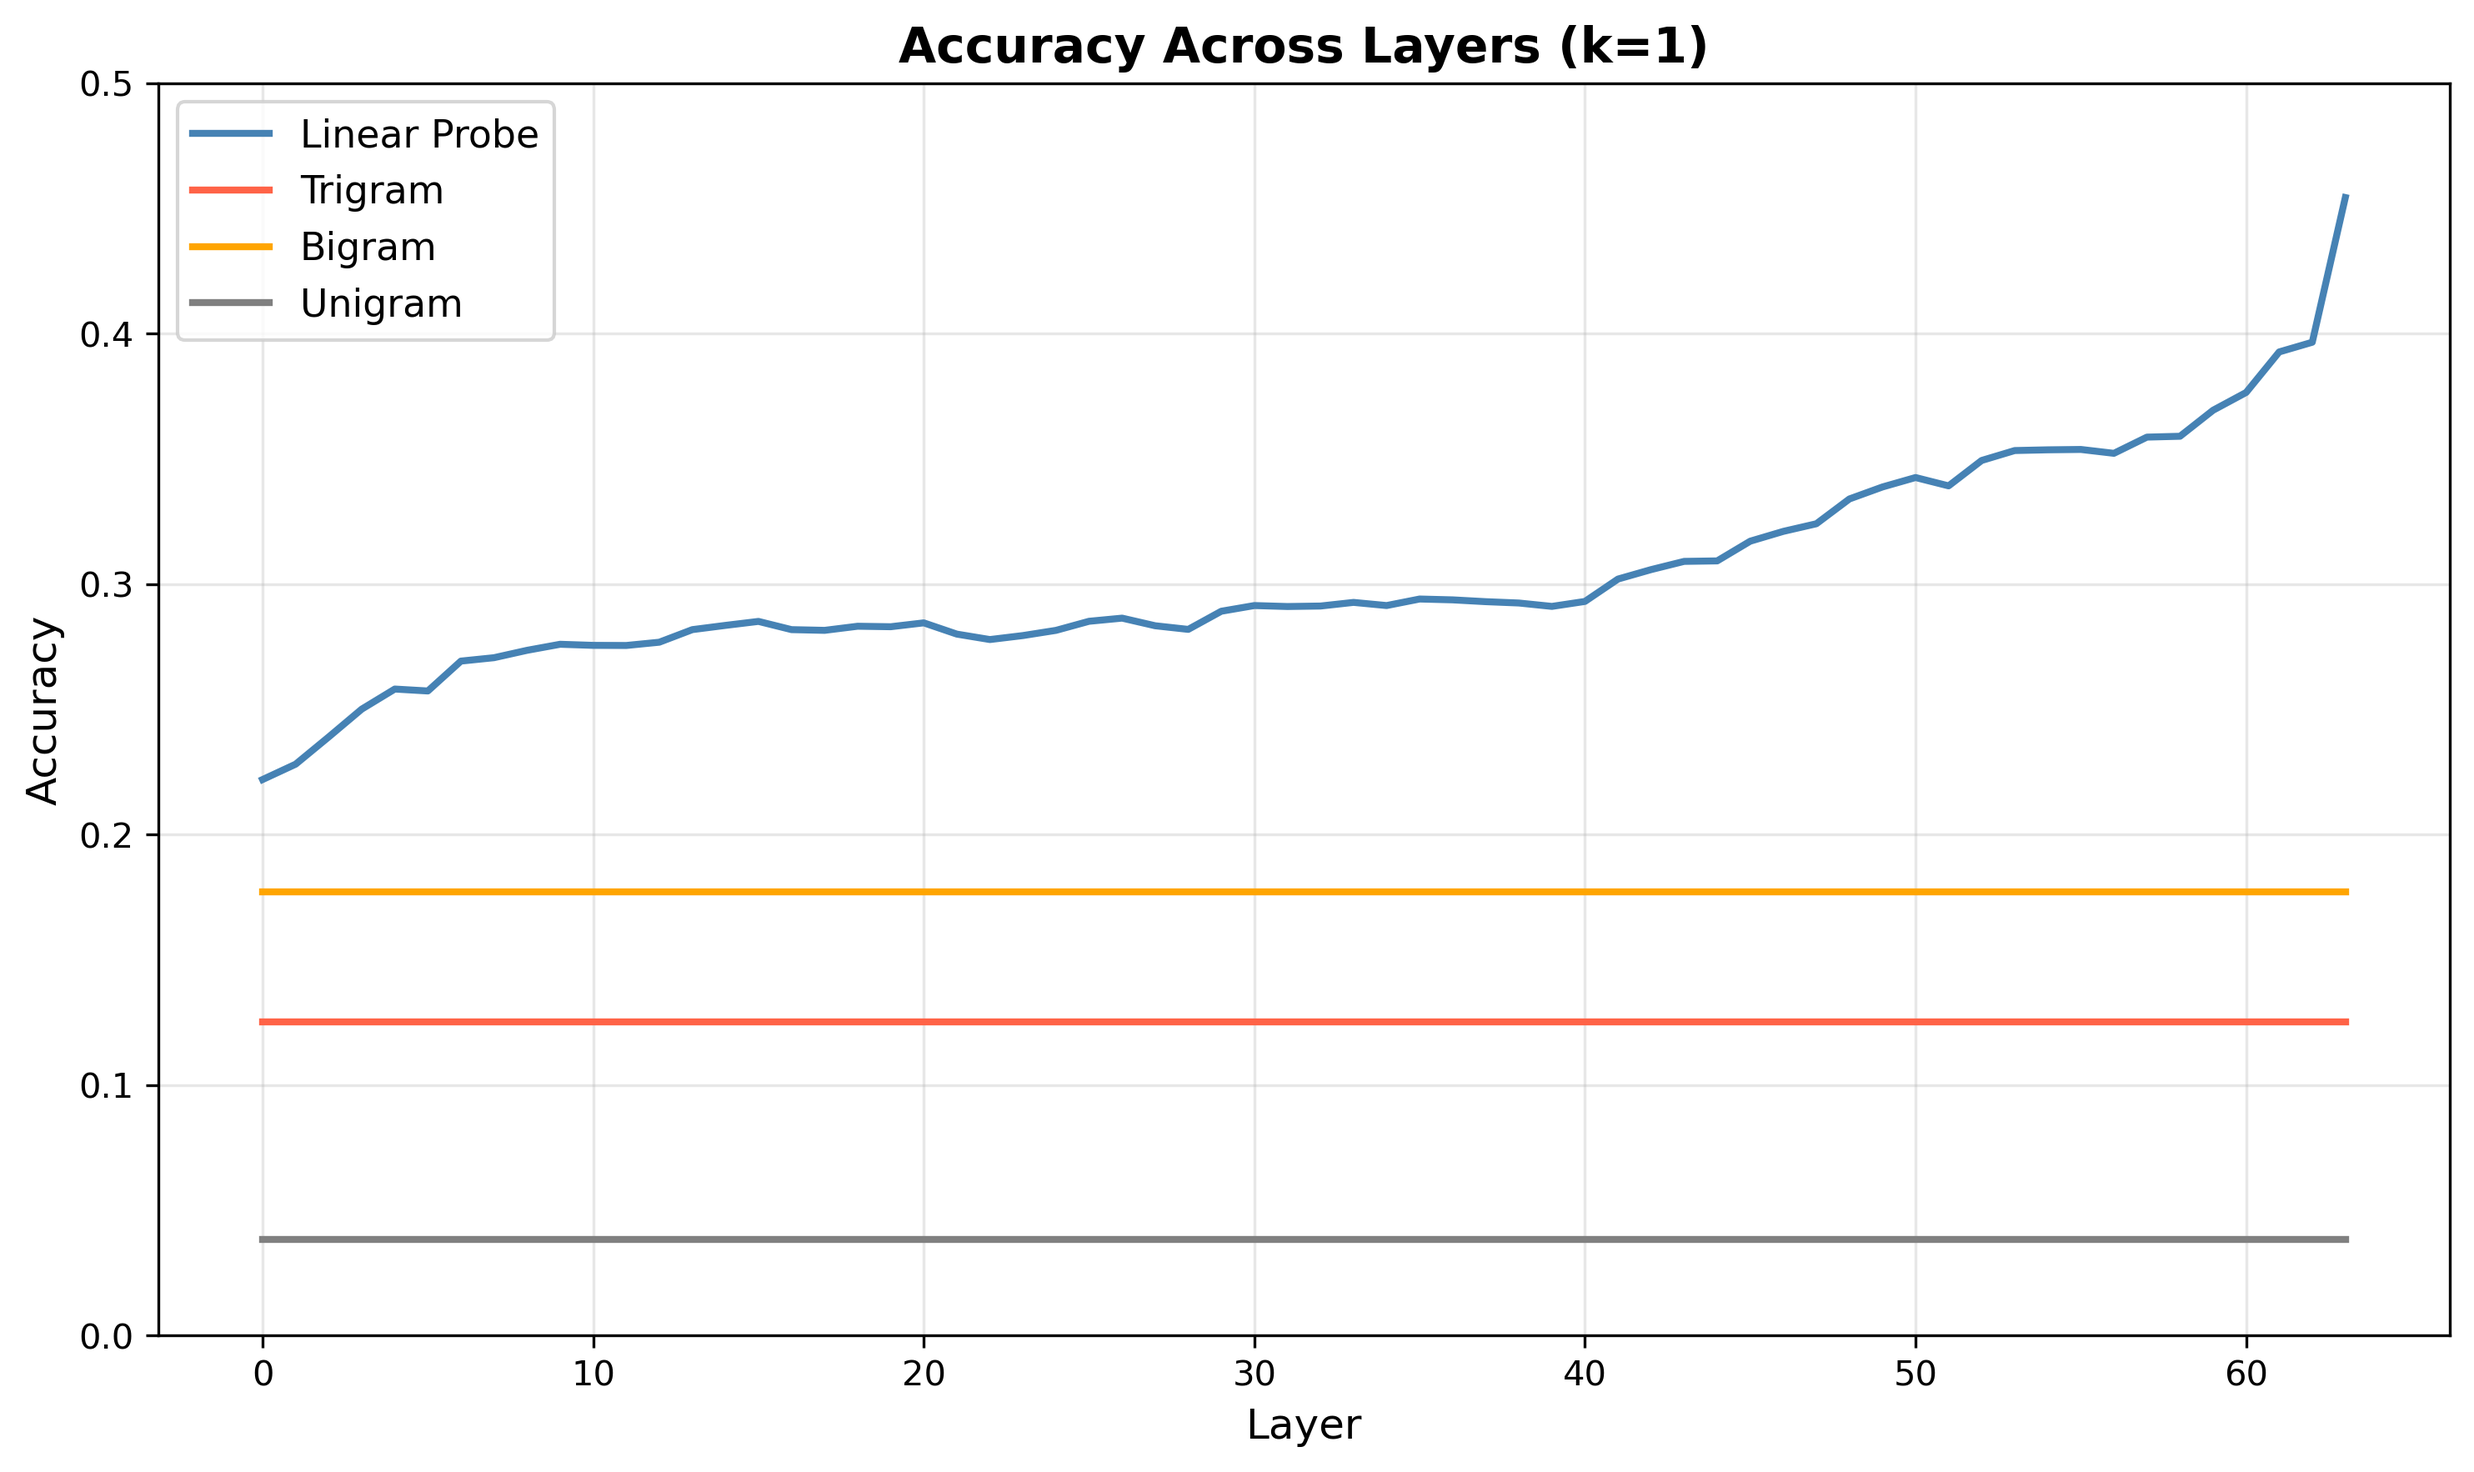
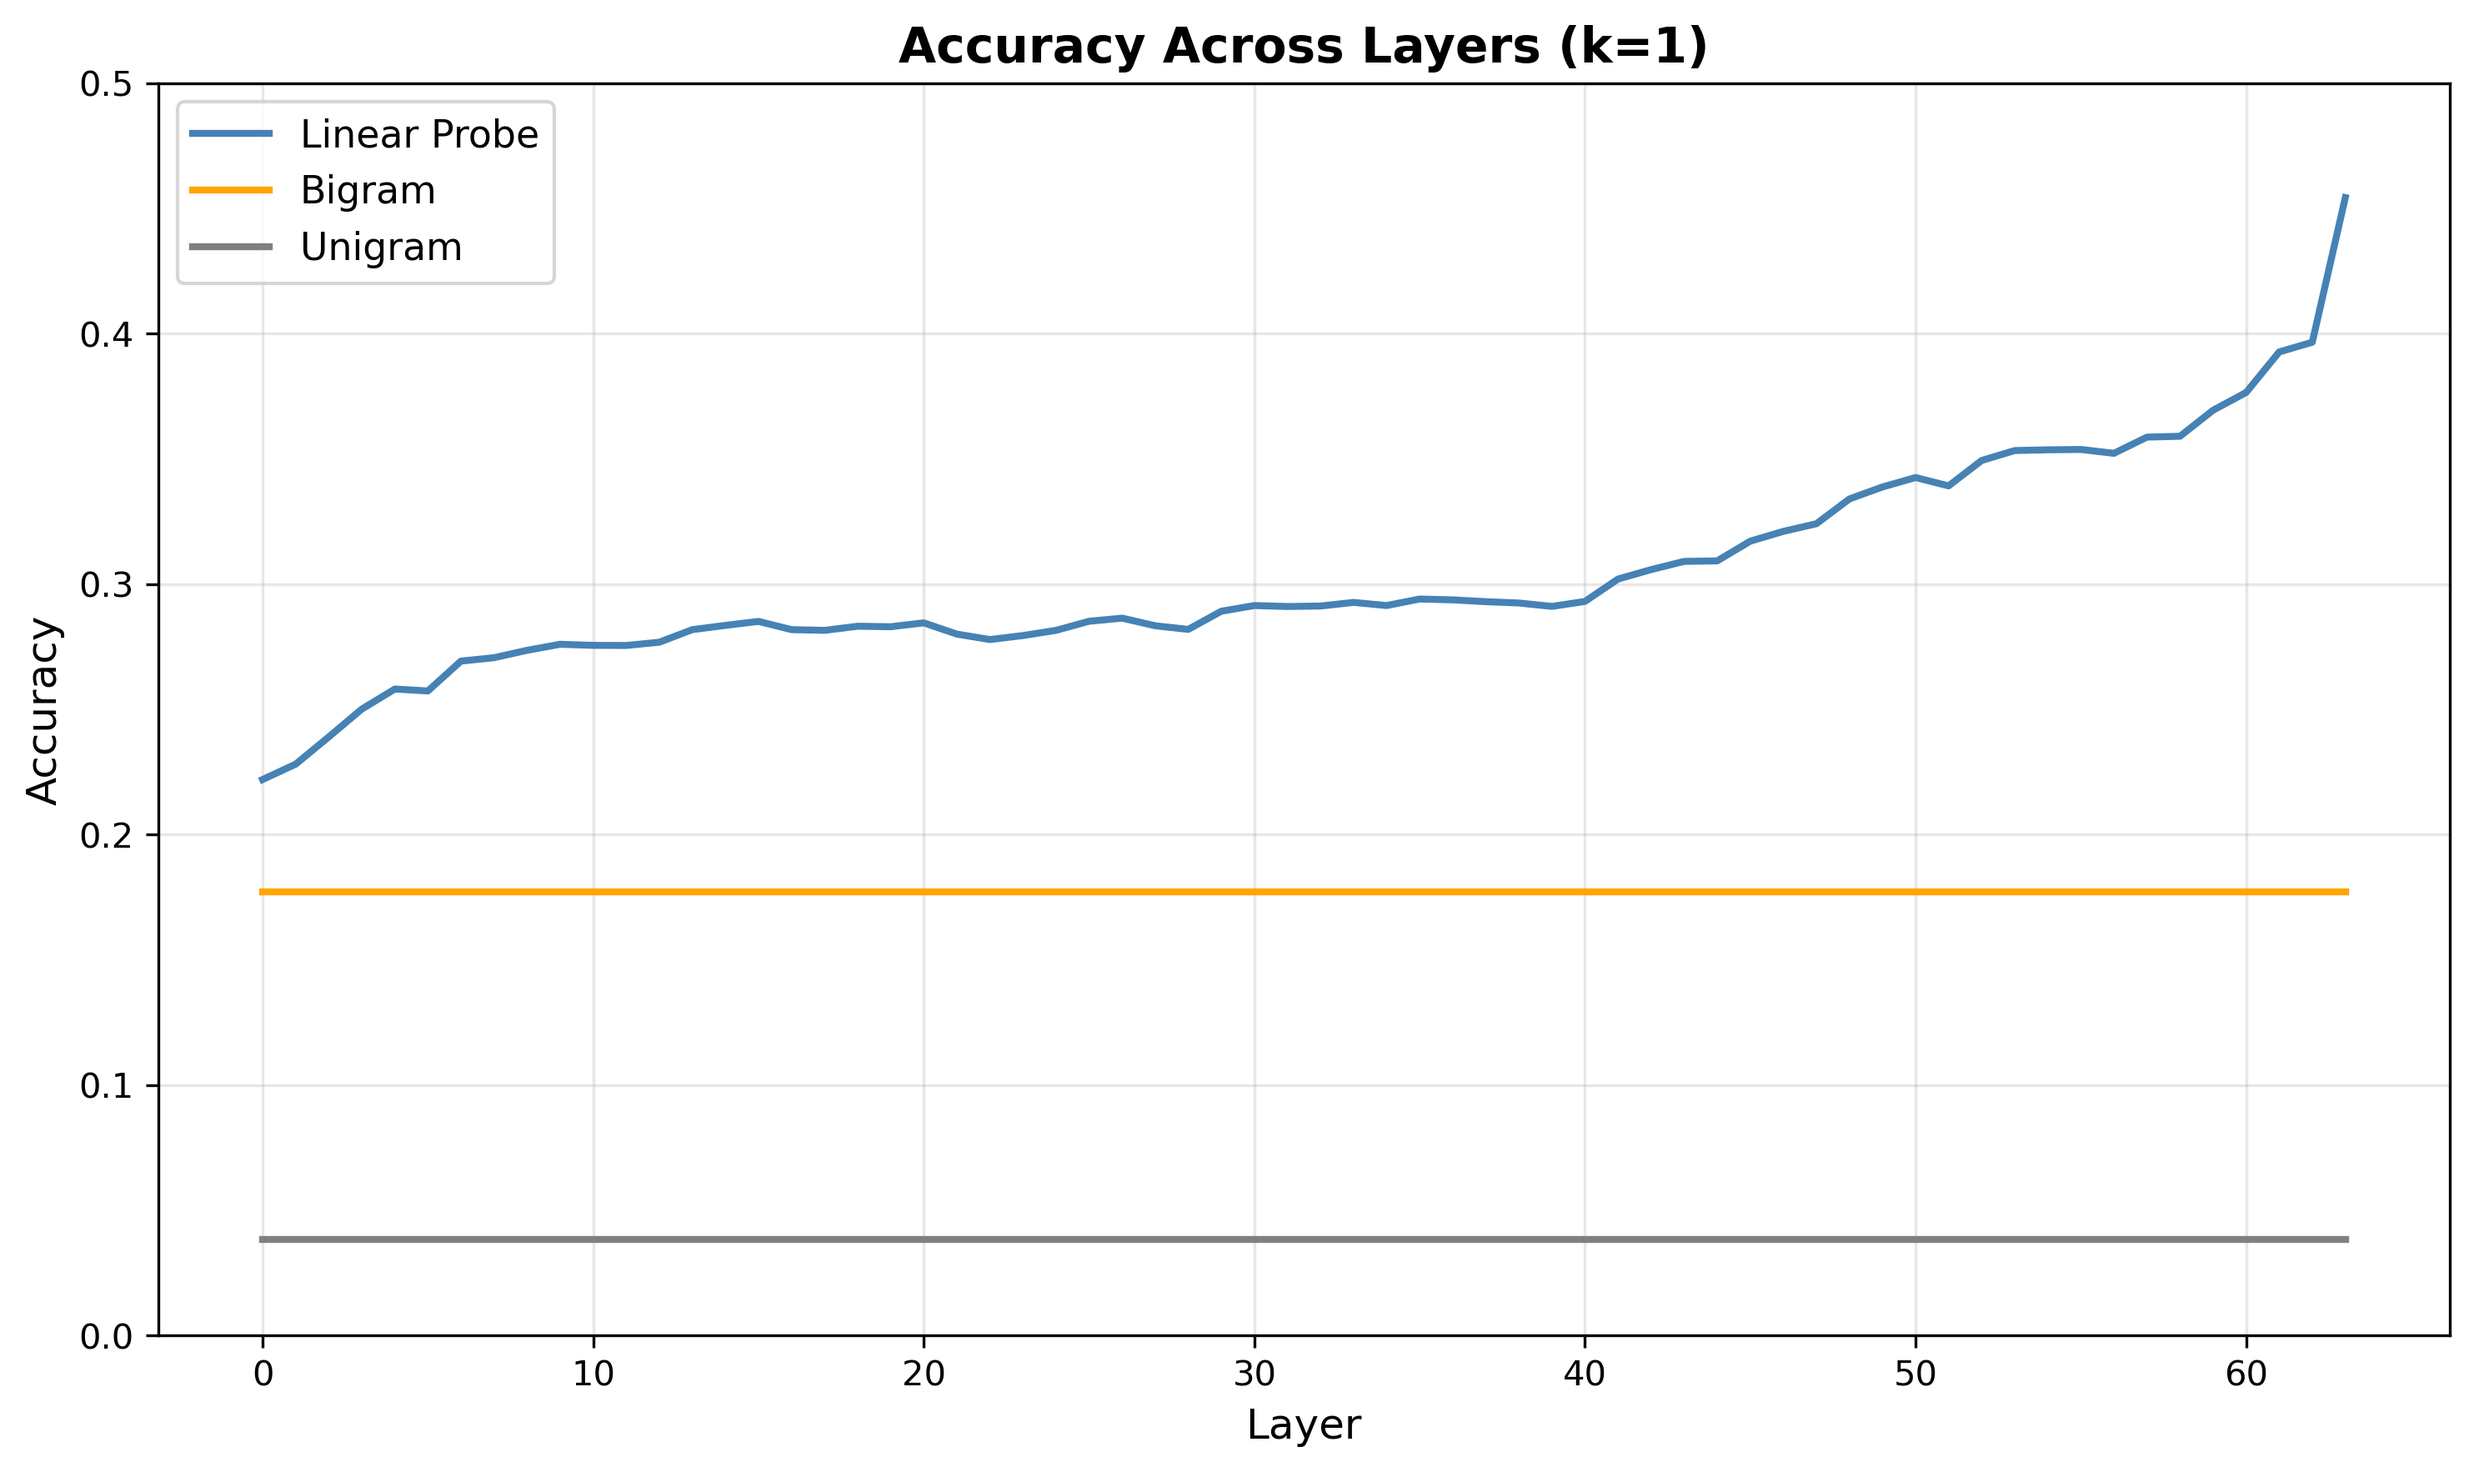
feat: new plotting script for probe

Changed region(s): [[0.093, 0.6852, 0.9609, 0.7163], [0.062, 0.1246, 0.186, 0.218]]

diff --git a/probe/src/look_ahead_probe/visualize_results.py b/probe/src/look_ahead_probe/visualize_results.py
@@ -40,10 +40,9 @@ def plot_results(all_results_by_k, labels, colors, output_dir,
                  show_val=False, show_train=False, show_top5=False,
                  acc_min=0.0, acc_max=1.0):
     """
-    Overlay multiple result sets on a single plot per k value.
+    One subplot per k value, all side by side in a single figure.
 
-    Color  → dataset (one per JSON)
-    Style  → metric type (solid=val, dashed=train, dotted=top-5)
+    Color → series (one per JSON)
     """
     # Resolve colors: fill unspecified slots from matplotlib's default cycle
     prop_cycle = plt.rcParams['axes.prop_cycle']
@@ -53,11 +52,10 @@ def plot_results(all_results_by_k, labels, colors, output_dir,
         for i, c in enumerate(colors)
     ]
 
-    # Which metrics to plot and their visual style
     metric_specs = []
-    if show_val:   metric_specs.append(('val_accuracy',      'Val',   'o', '-'))
-    if show_train: metric_specs.append(('train_accuracy',    'Train', 's', '--'))
-    if show_top5:  metric_specs.append(('val_top5_accuracy', 'Top-5', '^', ':'))
+    if show_val:   metric_specs.append(('val_accuracy',      'Val',   '-'))
+    if show_train: metric_specs.append(('train_accuracy',    'Train', '--'))
+    if show_top5:  metric_specs.append(('val_top5_accuracy', 'Top-5', '-'))
 
     multi_metric = len(metric_specs) > 1
 
@@ -65,19 +63,24 @@ def plot_results(all_results_by_k, labels, colors, output_dir,
         k for r in all_results_by_k for k in r.keys() if k is not None
     ))
 
-    filename_parts = [name.lower().replace('-', '') for _, name, _, _ in metric_specs]
+    if not all_k:
+        print("No k values found; nothing to plot.")
+        return
 
-    for k in all_k:
-        fig, ax = plt.subplots(figsize=(10, 6))
-        plotted = False
+    filename_parts = [name.lower().replace('-', '') for _, name, _ in metric_specs]
 
+    fig, axes = plt.subplots(1, len(all_k), figsize=(6 * len(all_k), 5), sharey=True)
+    if len(all_k) == 1:
+        axes = [axes]
+
+    for ax, k in zip(axes, all_k):
         for results_by_k, label, color in zip(all_results_by_k, labels, resolved_colors):
             if k not in results_by_k:
                 continue
 
             layers = [layer for layer, _ in results_by_k[k]]
 
-            for metric_key, metric_name, marker, linestyle in metric_specs:
+            for metric_key, metric_name, linestyle in metric_specs:
                 vals = [
                     m[metric_key]
                     for _, m in results_by_k[k]
@@ -88,25 +91,21 @@ def plot_results(all_results_by_k, labels, colors, output_dir,
                 legend_label = f"{label} ({metric_name})" if multi_metric else label
                 ax.plot(layers, vals, linewidth=2,
                         linestyle=linestyle, color=color, label=legend_label)
-                plotted = True
 
-        if not plotted:
-            plt.close(fig)
-            continue
-
-        ax.set_xlabel('Layer', fontsize=12)
-        ax.set_ylabel('Accuracy', fontsize=12)
-        ax.set_title(f"Accuracy Across Layers (k={k})", fontsize=14, fontweight='bold')
+        ax.set_title(f"k={k}", fontsize=13, fontweight='bold')
+        ax.set_xlabel('Layer', fontsize=11)
         ax.set_ylim(acc_min, acc_max)
         ax.grid(True, alpha=0.3)
-        ax.legend(fontsize=11)
-        fig.tight_layout()
+        ax.legend(fontsize=10)
 
-        filename = f"{'_'.join(filename_parts)}_accuracy_k{k}.png"
-        output_path = Path(output_dir) / filename
-        fig.savefig(output_path, dpi=300, bbox_inches='tight')
-        print(f"Saved: {output_path}")
-        plt.close(fig)
+    axes[0].set_ylabel('Accuracy', fontsize=11)
+    fig.tight_layout()
+
+    filename = f"{'_'.join(filename_parts)}_accuracy.png"
+    output_path = Path(output_dir) / filename
+    fig.savefig(output_path, dpi=300, bbox_inches='tight')
+    print(f"Saved: {output_path}")
+    plt.close(fig)
 
 
 def main():
@@ -168,10 +167,6 @@ def main():
         data = load_results(path)
         all_results_by_k.append(organize_results_by_k(data['results']))
 
-    all_k = sorted(set(
-        k for r in all_results_by_k for k in r.keys() if k is not None
-    ))
-    print(f"k values: {all_k}")
     print(f"Output dir: {output_dir}\n")
 
     plot_results(all_results_by_k, labels, colors, output_dir,
